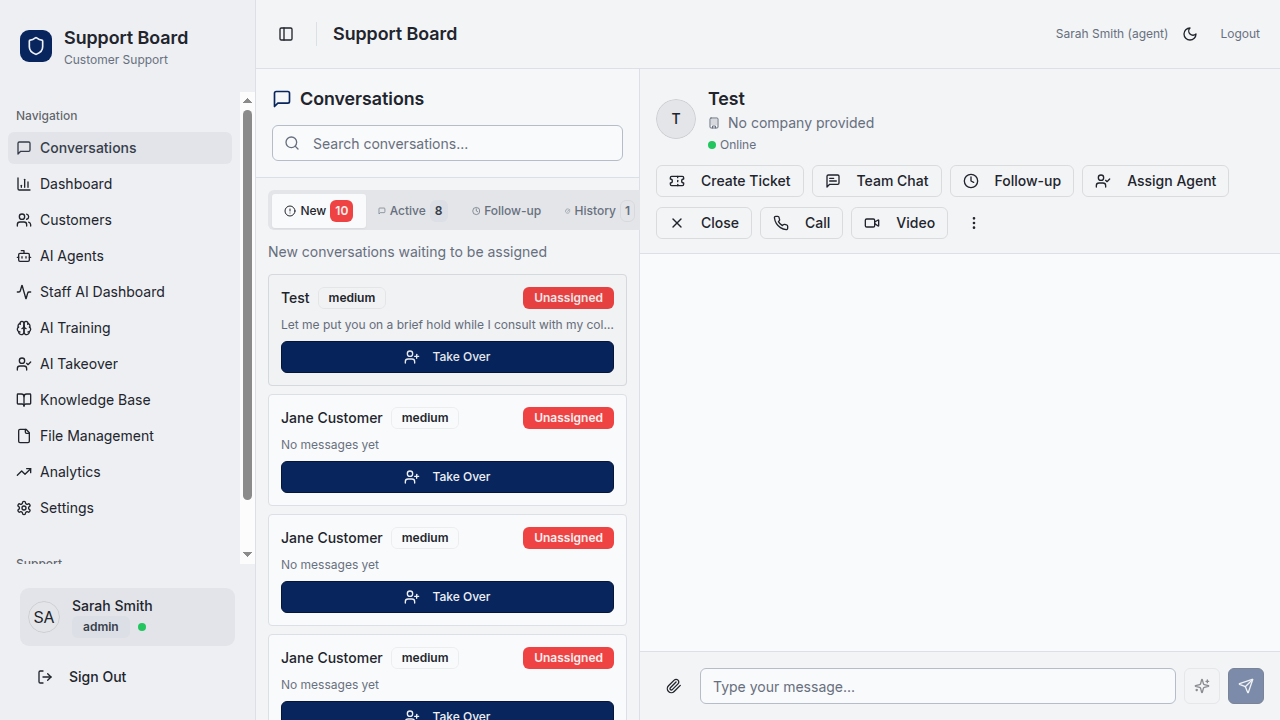
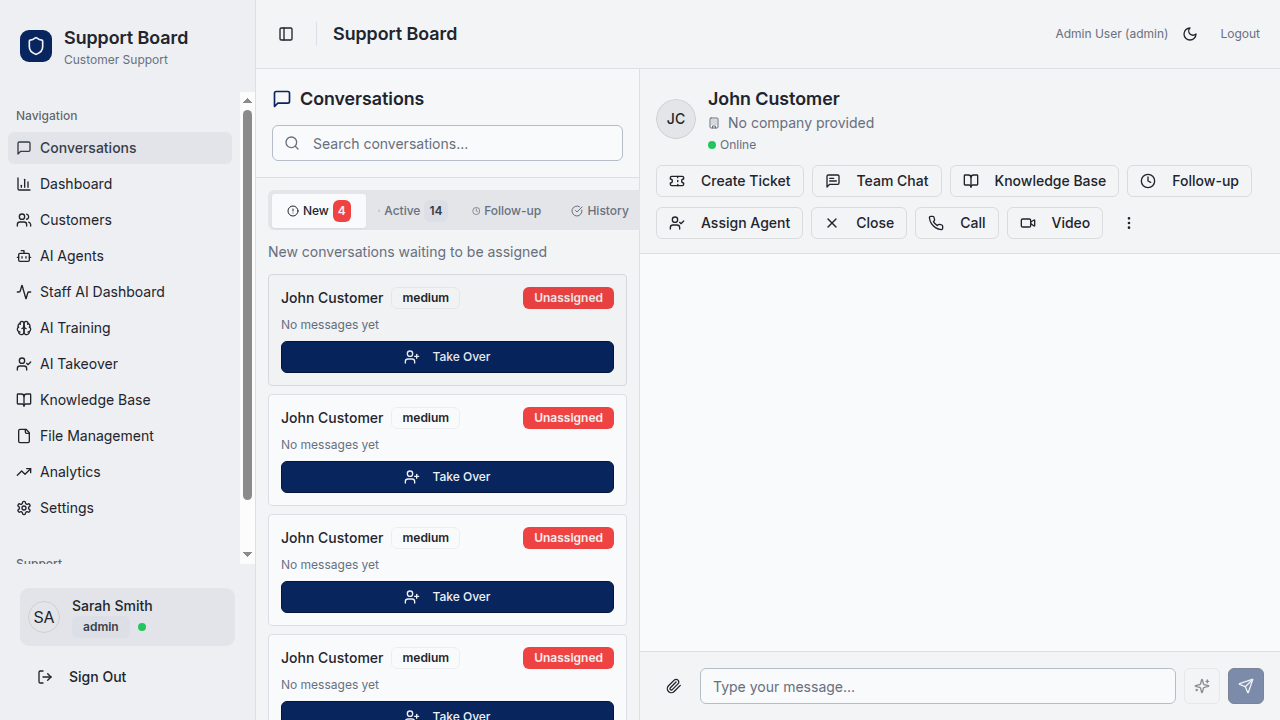
Add ability to search internal knowledge base for agents
Integrates KnowledgeRetrievalService to provide hybrid search capabilities for agents and admins, including an alias for article search. Also refactors the send message API request in the client.

Replit-Commit-Author: Agent
Replit-Commit-Session-Id: f48baf3c-7795-4ccf-931e-9bb16389dd37
Replit-Commit-Checkpoint-Type: intermediate_checkpoint
Replit-Commit-Screenshot-Url: https://storage.googleapis.com/screenshot-production-us-central1/fc4c149f-f4da-48fa-8af3-92b4ed8f6411/f48baf3c-7795-4ccf-931e-9bb16389dd37/q56y6iG

diff --git a/server/routes.ts b/server/routes.ts
@@ -31,6 +31,7 @@ import {
   updateUploadedFileSchema
 } from '@shared/schema';
 import { WebScraper } from './web-scraper';
+import { KnowledgeRetrievalService } from './knowledge-retrieval';
 
 // Route-specific validation schemas
 const messageCreateSchema = z.object({
@@ -2486,6 +2487,65 @@ export async function registerRoutes(app: Express, sessionStore?: any): Promise<
   }
 
   // Knowledge Base Management API routes
+  // Search knowledge base using enhanced semantic and hybrid search
+  app.get('/api/search/knowledge', requireAuth, requireRole(['admin', 'agent']), async (req, res) => {
+    try {
+      const { query, maxResults, minScore, agentId } = req.query;
+      
+      if (!query || typeof query !== 'string') {
+        return res.status(400).json({ error: 'Search query is required' });
+      }
+
+      const knowledgeRetrieval = KnowledgeRetrievalService.getInstance();
+      const results = await knowledgeRetrieval.search(query, [], {
+        maxResults: maxResults ? parseInt(maxResults as string) : 5,
+        minScore: minScore ? parseFloat(minScore as string) : 0.15,
+        knowledgeBaseIds: agentId ? undefined : undefined, // Could filter by agent's knowledge base
+        useSemanticSearch: true,
+        expandScope: false
+      });
+
+      res.json(results);
+    } catch (error) {
+      console.error('Failed to search knowledge base:', error);
+      res.status(500).json({ error: 'Failed to search knowledge base' });
+    }
+  });
+
+  // Search articles (alias for knowledge search for backward compatibility)
+  app.get('/api/search/articles', requireAuth, requireRole(['admin', 'agent']), async (req, res) => {
+    try {
+      const { query, maxResults, minScore } = req.query;
+      
+      if (!query || typeof query !== 'string') {
+        return res.status(400).json({ error: 'Search query is required' });
+      }
+
+      const knowledgeRetrieval = KnowledgeRetrievalService.getInstance();
+      const results = await knowledgeRetrieval.search(query, [], {
+        maxResults: maxResults ? parseInt(maxResults as string) : 5,
+        minScore: minScore ? parseFloat(minScore as string) : 0.15,
+        useSemanticSearch: true,
+        expandScope: false
+      });
+
+      // Transform results to focus on article information
+      const articleResults = results.map((result: any) => ({
+        id: result.chunk.articleId,
+        title: result.chunk.title,
+        content: result.chunk.content,
+        score: result.score,
+        matchType: result.matchType,
+        metadata: result.chunk.metadata
+      }));
+
+      res.json(articleResults);
+    } catch (error) {
+      console.error('Failed to search articles:', error);
+      res.status(500).json({ error: 'Failed to search articles' });
+    }
+  });
+
   // Get all knowledge base articles
   app.get('/api/knowledge-base', requireAuth, requireRole(['admin', 'agent']), async (req, res) => {
     try {

diff --git a/client/src/pages/ConversationsPage.tsx b/client/src/pages/ConversationsPage.tsx
@@ -260,7 +260,7 @@ export default function ConversationsPage() {
   // Send message mutation
   const sendMessage = useMutation({
     mutationFn: async ({ conversationId, content }: { conversationId: string; content: string }) => {
-      return await apiRequest('POST', '/api/messages', { conversationId, content });
+      return await apiRequest('/api/messages', 'POST', { conversationId, content });
     },
     onSuccess: () => {
       // Invalidate and refetch messages after sending
